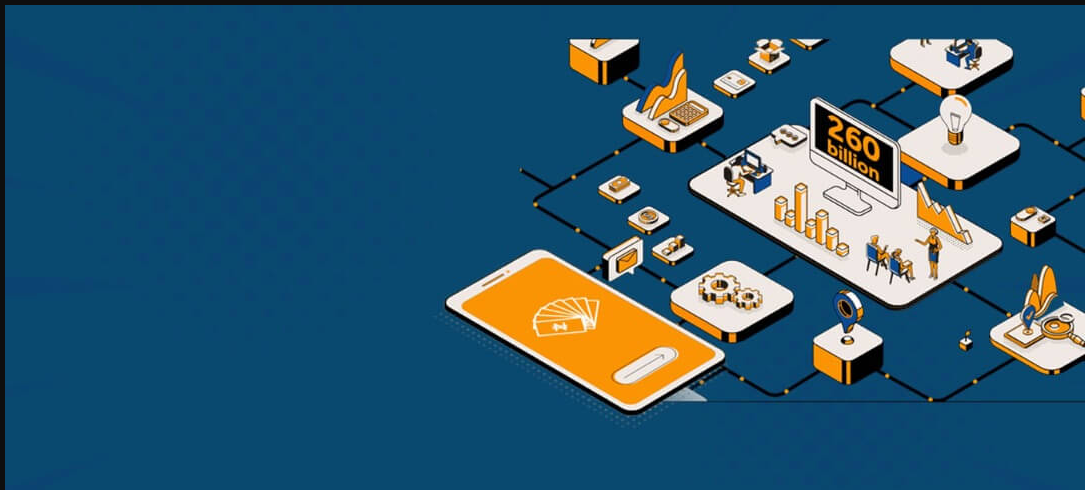
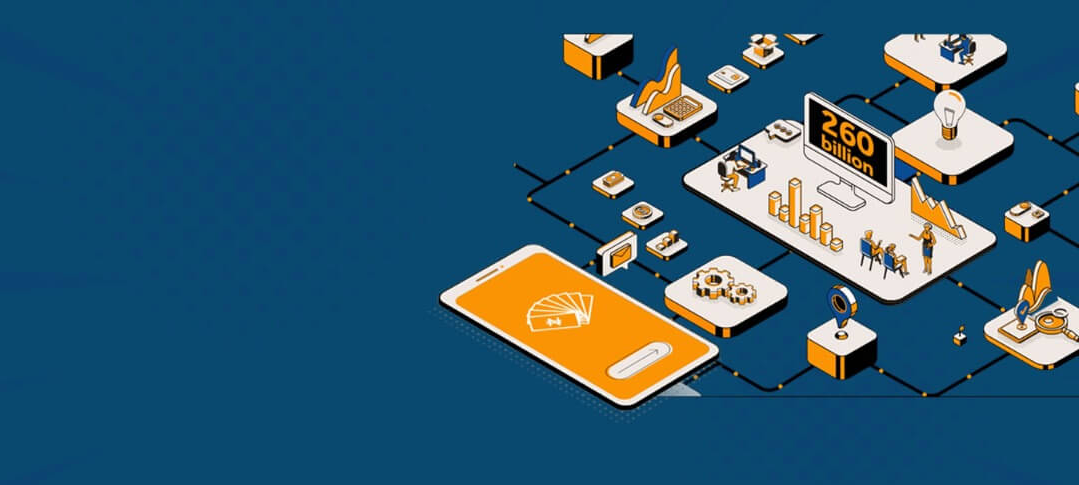
updated html and practice styles

diff --git a/practice.html b/practice.html
@@ -7,7 +7,7 @@
     <link rel="stylesheet" href="practice.css">
 </head>
 <body>
-    <div id="container">
+    <div id="slidecontainer">
         <div id="images">
             <input type="radio" name="slide" id="img1" checked>
             <input type="radio" name="slide" id="img2">
@@ -25,27 +25,27 @@
                 <button>ACCESS MORE</button>
             </div>
             <div class="img m2">
-                <h1>YOUniverse</h1>
-                <p>Marking 20 years of the Bank's journey via transformational leadership and achievements</p>
-                <p>#NoUsWithoutYou #AccessYOUniverse</p>
+                <h1>Dream more</h1>
+                <h4>We are leading an evolving generation of digitally led banks</4>
+                <p>Using mobile connectivity to reach people with tailor-made financial solutions</p>
                 <button>ACCESS MORE</button>
             </div>
             <div class="img m3">
-                <h1>YOUniverse</h1>
-                <p>Marking 20 years of the Bank's journey via transformational leadership and achievements</p>
-                <p>#NoUsWithoutYou #AccessYOUniverse</p>
+                <h1>Grow More</h1>
+                <p>We are leading the way for Africa's Green Revolution</p>
                 <button>ACCESS MORE</button>
             </div>
             <div class="img m4">
-                <h1>YOUniverse</h1>
-                <p>Marking 20 years of the Bank's journey via transformational leadership and achievements</p>
-                <p>#NoUsWithoutYou #AccessYOUniverse</p>
+                <h1>Be More</h1>
+                <p>We are creating an enabling environment that is tapping into the ambition and growth of millions.</p>
                 <button>ACCESS MORE</button>
             </div>
             <div class="img m5">
-                <h1>YOUniverse</h1>
-                <p>Marking 20 years of the Bank's journey via transformational leadership and achievements</p>
-                <p>#NoUsWithoutYou #AccessYOUniverse</p>
+                <h1>Protect your Account</h1>
+                <p>Your banking Information such as, the 16-digit card number, password, PIN, BVN, CVV or One-Time Password(OTP) is too personal
+                    to be shared with anyone.
+                </p>
+                <p>#BanksDontAsk</p>
                 <button>ACCESS MORE</button>
             </div>
             <div class="img m6">

diff --git a/practice.css b/practice.css
@@ -11,22 +11,24 @@ body {
     background-color: slategray;
 }
 
-.checked, #dots label:hover { background: #fff; } /* for javascript! */
+.checked, #dots label:hover { background: #fff; } /* .checked for javascript! */
 
-#container {
+#slidecontainer {
     margin-top: 10rem;
-    width: 70%;
+    width: 90%;
     position: relative;
+    height: 90vh;
 }
 
 #images {
     display: flex;
     overflow-x: hidden;
+    height: 90%;
 }
 
 div.img {
     /* display: inline-block; */
-    height: 50vh;
+    height: ;
     flex: 0 0 100%;
     width: 100%;
     background-repeat: no-repeat;
